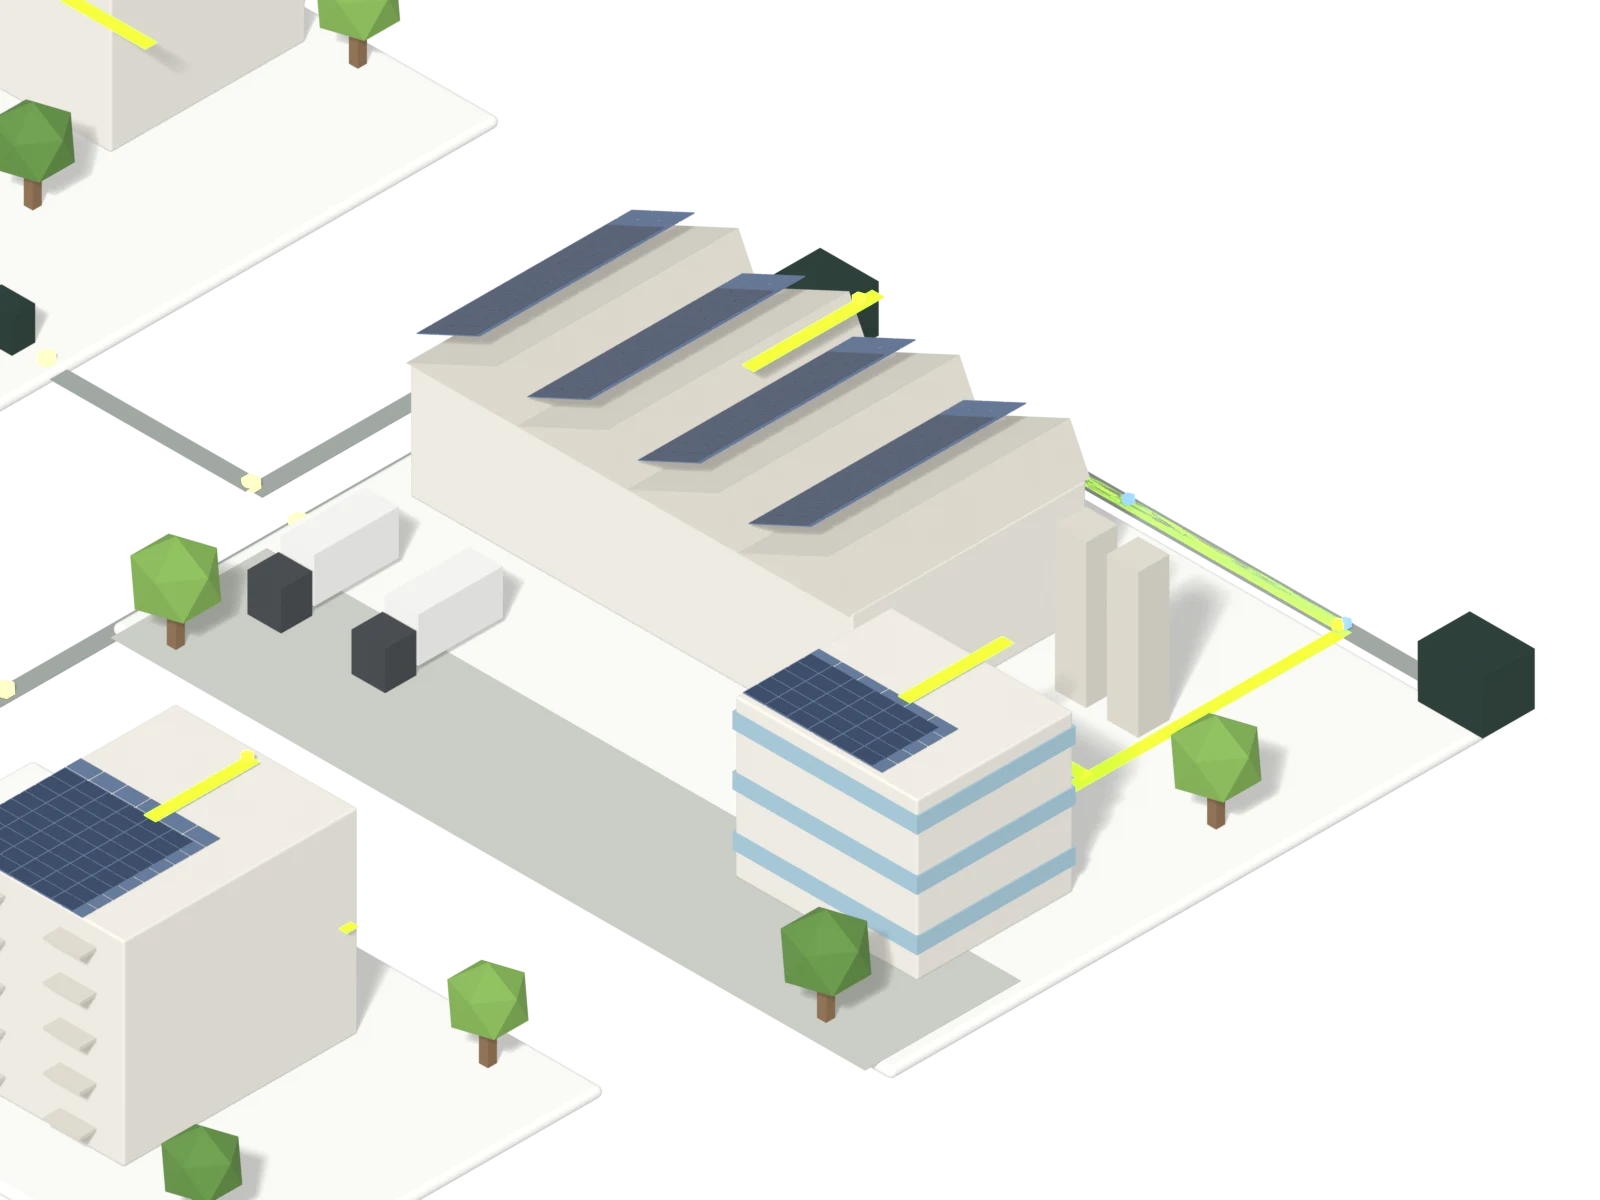
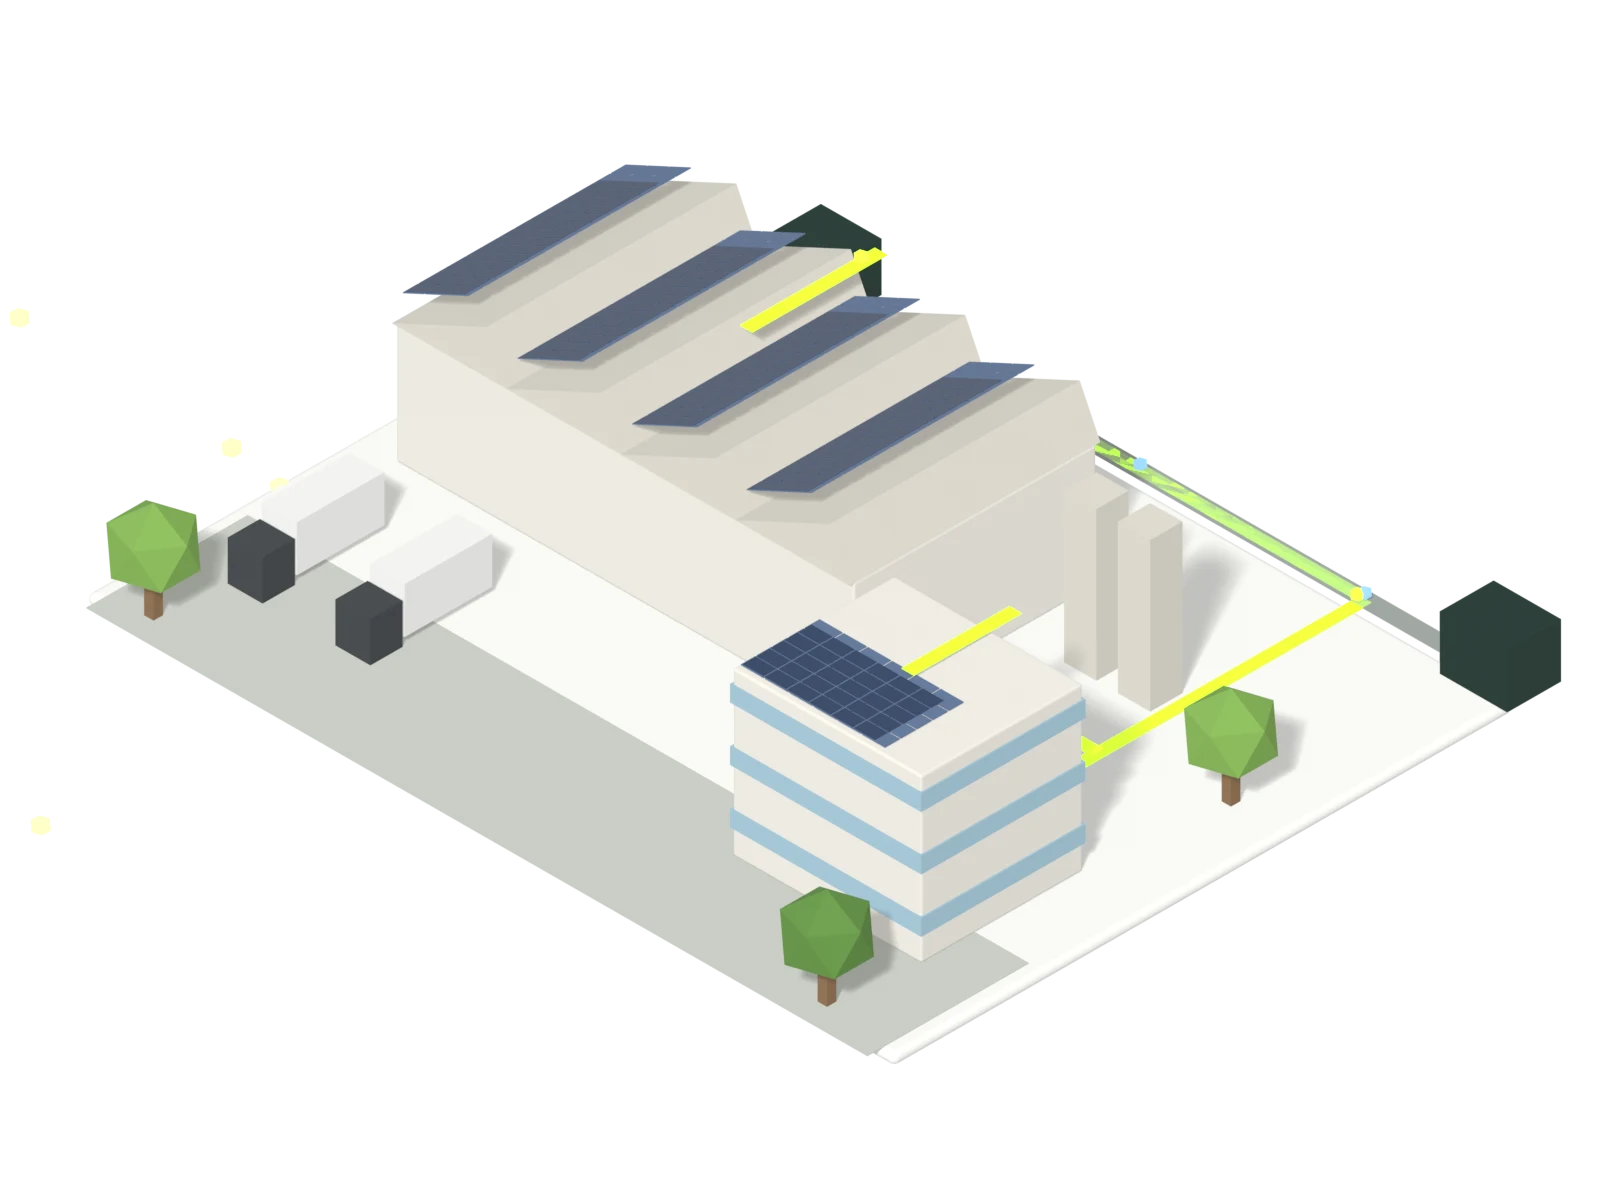
fix(ratgeber): Inselrenders freigestellt und dunkler Header auf den Ratgeberseiten

diff --git a/src/components/Header.tsx b/src/components/Header.tsx
@@ -32,6 +32,7 @@ const Header = () => {
 
   const pagesWithDarkHeader = [
     '/calculator',
+    '/ratgeber',
     '/commercial/calculator',
     '/solar-free',
     '/commercial/solar-free',

diff --git a/scripts/3d/energiegemeinschaften/build_scene.py b/scripts/3d/energiegemeinschaften/build_scene.py
@@ -569,9 +569,15 @@ def main():
     render(sc, os.path.join(img_dir, 'energiegemeinschaften.webp'), 2400, 1500)
     if preview:
         render(sc, preview, 1400, 875, fmt='PNG')
+    prefixes = {'zev': ('zev_', 'island_zev'), 'vzev': ('vzev_', 'island_vzev'), 'leg': ('leg_', 'island_leg', 'netz'), 'praxismodell': ('praxis_', 'island_praxismodell')}
+    meshes = [o for o in bpy.data.objects if o.type == 'MESH' and o.name != 'ground']
     for zid, (c, s) in ISLANDS.items():
-        aim(cam, (c[0], c[1], 5.0), max(s) * 1.45)
+        for o in meshes:
+            o.hide_render = not o.name.startswith(prefixes[zid]) or o.name.startswith(('leg_flow_to', 'leg_grid'))
+        aim(cam, (c[0], c[1], 3.0), max(s) * 1.4)
         render(sc, os.path.join(img_dir, zid + '.webp'), 1600, 1200)
+    for o in meshes:
+        o.hide_render = False
 
     size = os.path.getsize(os.path.join(glb_dir, 'energiegemeinschaften.glb'))
     print('GLB bytes:', size)
